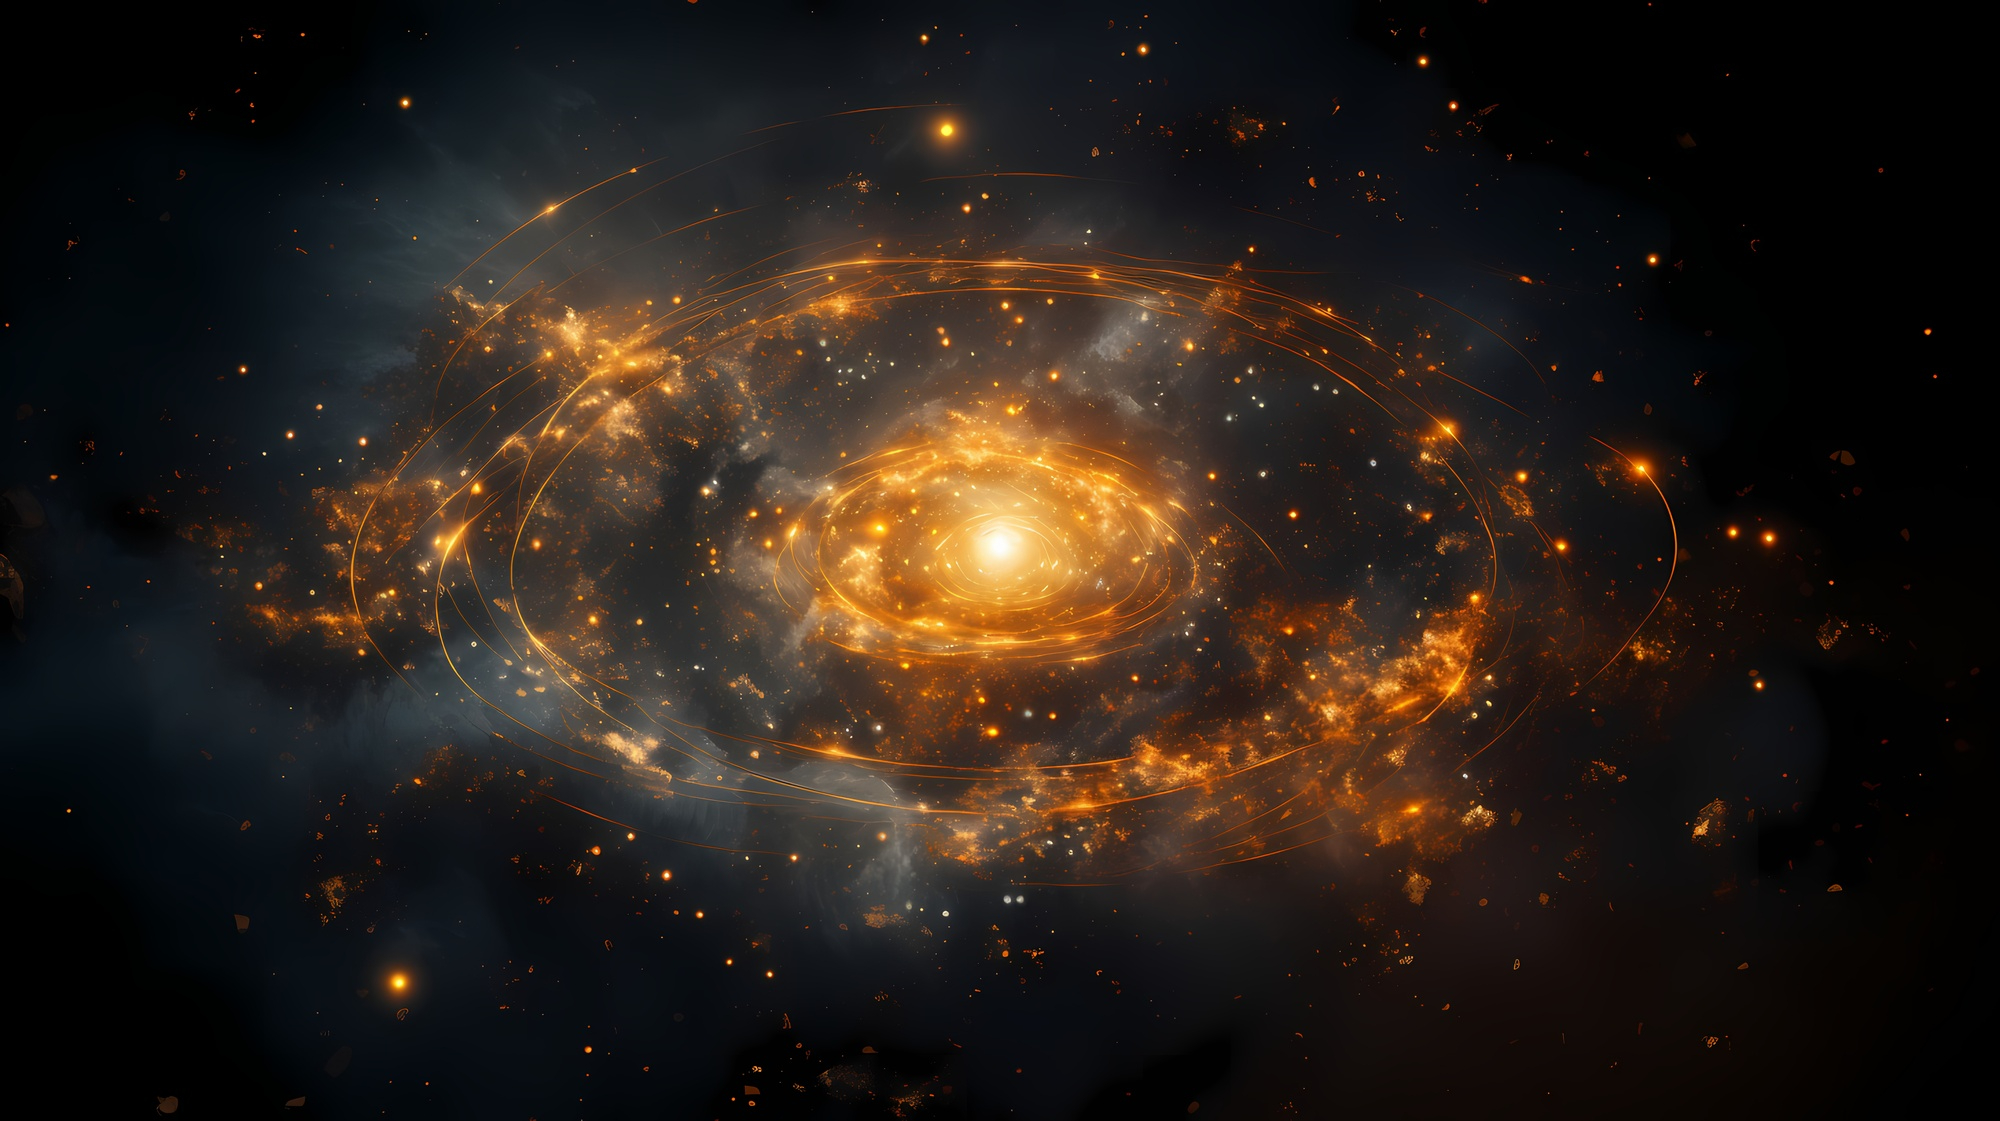
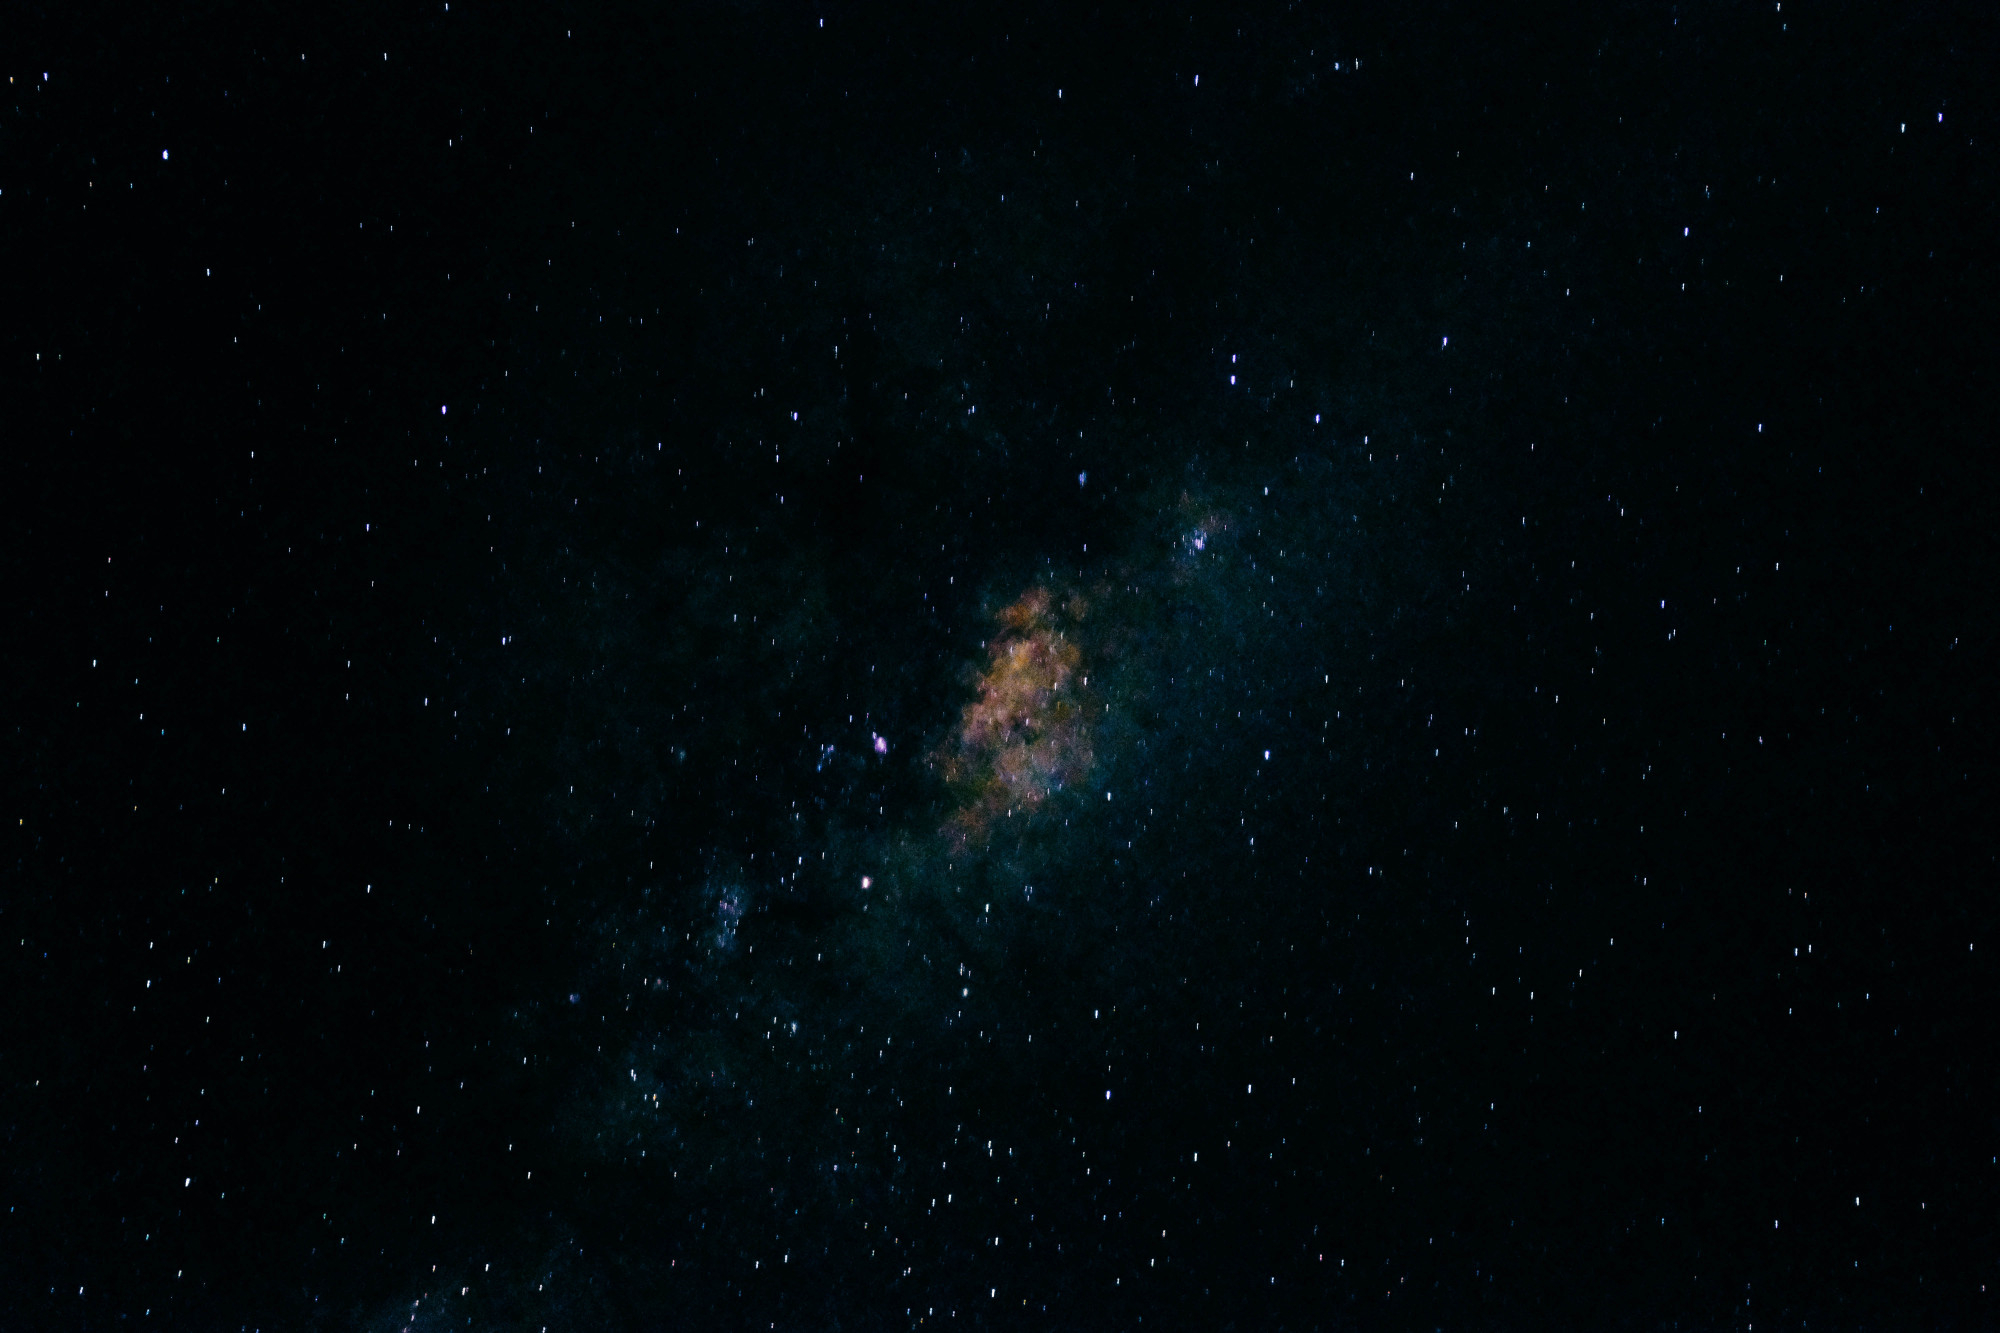
Done inventory iframe

diff --git a/src/pages/Inventory.jsx b/src/pages/Inventory.jsx
@@ -5,8 +5,19 @@ import backIcon from "../assets/images/back_icon.png";
 const Inventory = ({ data }) => {
   const [selectedWing, setSelectedWing] = useState(data[0]);
   const [wingMedia, setWingMedia] = useState(data[0].buildingImage);
+  const [openFlat, setOpenFlat] = useState("");
   const [isTypicalPlan, setIsTypicalPlan] = useState({
-    image: "",
+    data: {
+      image: "",
+      overlay: "",
+      links: {
+        left1: "",
+        left2: "",
+        center1: "",
+        right1: "",
+        right2: "",
+      },
+    },
     status: false,
   });
   const [showIframe, setShowIframe] = useState(false);
@@ -67,10 +78,10 @@ const Inventory = ({ data }) => {
   }, [activePathIndex]); // Trigger on activePathIndex change
 
   const CustomModal = ({ children, onClose }) => (
-    <div className="fixed inset-0 z-50 flex items-center justify-center bg-black bg-opacity-70">
-      <div className="relative bg-white rounded-xl shadow-lg max-w-4xl w-full max-h-[90vh] overflow-auto p-4">
+    <div className="fixed inset-0 z-[100] flex items-center justify-center bg-black bg-opacity-70">
+      <div className="relative bg-white rounded-xl shadow-lg w-full max-h-[90vh] overflow-auto p-4  max-w-[90%] mx-auto">
         <button
-          className="absolute top-2 left-2 bg-dustyGray"
+          className="absolute top-2 left-2 bg-dustyGray z-10"
           onClick={onClose}
         >
           <img src={backIcon} alt="back icon" className="w-6 h-6" />
@@ -79,11 +90,57 @@ const Inventory = ({ data }) => {
       </div>
     </div>
   );
-  
+
+  const handleFloorClick = (path) => {
+    setIsTypicalPlan({
+      data: { image: path?.image, overlay: path?.overlay, links: path?.links },
+      status: true,
+    });
+    fetch(path?.overlay)
+      .then((res) => res.text())
+      .then((svg) => {
+        document.getElementById("svg-container").innerHTML = svg;
+      });
+  };
+
+  const handleOpenIframe = (link) => {
+    setOpenFlat(link);
+    setShowIframe(true);
+  };
+
+  useEffect(() => {
+    if (!isTypicalPlan?.status) return;
+
+    const svgContainer = document.getElementById("svg-container");
+    if (!svgContainer) return;
+
+    const observer = new MutationObserver(() => {
+      const pathElement = svgContainer.querySelector("#left1");
+      if (pathElement) {
+        const handleClick = () =>
+          handleOpenIframe(isTypicalPlan?.data?.links?.left1);
+        pathElement.addEventListener("click", handleClick);
+        observer.disconnect(); // Stop observing once found
+
+        // Cleanup
+        return () => {
+          pathElement.removeEventListener("click", handleClick);
+        };
+      }
+    });
+
+    observer.observe(svgContainer, { childList: true, subtree: true });
+
+    return () => observer.disconnect();
+  }, [isTypicalPlan?.status]);
+
   return (
     <div className="full-container developer-container bg-white">
       <div className="relative w-screen !h-full overflow-hidden home_page_image_container">
-        <div className="relative inline-block md:max-w-[650px] max-w-[calc(100%-45px)]" ref={scrollRef}>
+        <div
+          className="relative inline-block md:max-w-[650px] max-w-[calc(100%-45px)]"
+          ref={scrollRef}
+        >
           <img
             src={wingMedia}
             alt="building"
@@ -100,11 +157,10 @@ const Inventory = ({ data }) => {
                 {selectedWing?.floorList.map((path, index) => (
                   <path
                     key={index}
+                    id={`path-${index}`} // Add unique id to each path
+                    onClick={() => handleFloorClick(path)}
                     d={path?.d}
                     opacity={0.5}
-                    onClick={() => {
-                      setIsTypicalPlan({ image: path?.image, status: true });
-                    }}
                     fill={index === activePathIndex ? "green" : "transparent"}
                     style={
                       index === activePathIndex ? { cursor: "pointer" } : {}
@@ -143,30 +199,29 @@ const Inventory = ({ data }) => {
             if (showIframe) {
               setShowIframe(false);
             } else {
-              setIsTypicalPlan({ image: "", status: false });
+              setIsTypicalPlan({ data: {}, status: false });
             }
           }}
         >
           {showIframe ? (
             <iframe
-              // src={openFlat}
+              src={openFlat}
               height="100%"
               width="100%"
               className="flats_iframe"
               title="Flat Plan"
             />
           ) : (
-            <div className="flex justify-center">
+            <div className="flex justify-center relative">
               <img
-                src={isTypicalPlan?.image}
+                src={isTypicalPlan?.data?.image}
                 alt="Floor Plan"
-                className="max-w-full max-h-[80vh]"
+                className="max-w-full max-h-[80dvh]"
               />
-              {/* <img
-                src={isTypicalPlan?.image}
-                alt="Floor Plan"
-                className="max-w-full max-h-[80vh]"
-              /> */}
+              <div
+                id="svg-container"
+                className="inventory_floor_plan_svg max-h-[80dvh]"
+              ></div>
             </div>
           )}
         </CustomModal>

diff --git a/src/assets/css/inventory.css b/src/assets/css/inventory.css
@@ -56,18 +56,29 @@
   width: 43px;
 }
 
-.inventory_floor_plan_svg {
+.inventory_floor_plan_svg{
   position: absolute;
   top: 0;
   left: 0;
   width: 100%;
   height: auto;
   max-width: 100%;
-  max-height: 100%;
+  max-height: 80dvh;
+}
+.inventory_floor_plan_svg svg{
+  width: 100%;
+  height:100%;
+  max-height: 80dvh;
+}
+.inventory_floor_plan_svg svg image{
+  visibility: hidden;
+}
+.inventory_floor_plan_svg svg a {
+  cursor: pointer;
 }
 
 .flats_iframe {
-  height: 100vh;
+  height: 80dvh;
 }
 
 .floor-label::-webkit-scrollbar {

diff --git a/src/assets/css/index.css b/src/assets/css/index.css
@@ -36,7 +36,7 @@ body {
   background-position: 100%;
   background-size: cover;
   background-repeat: no-repeat;
-  background-image: url('/sky3.jpg');
+  background-image: url('/universe.jpg');
 }
 
 h1 {
